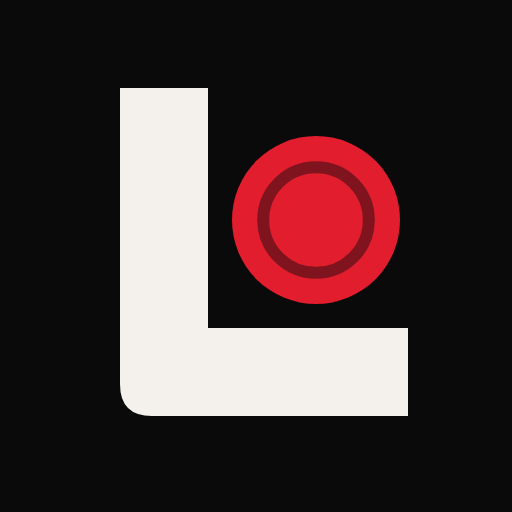
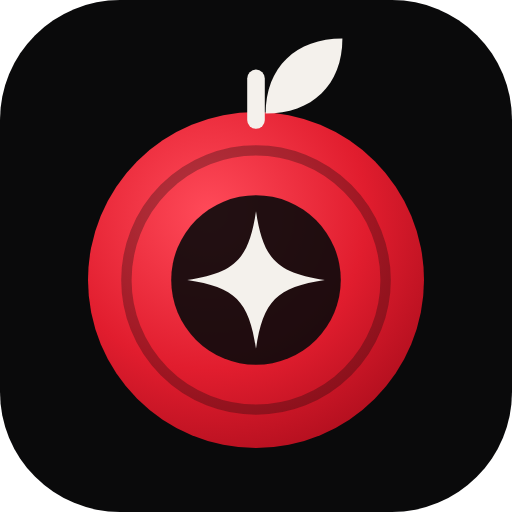
Liftkai identity: "Power Plate" symbol + custom spark wordmark
- New symbol: a weight plate (gym) that is also fresh produce (food) with a leaf
  (nutrition) and an AI spark at its core
- Custom vector wordmark drawn from Bricolage Grotesque Bold; the dot of the last
  "i" is the red AI spark (src/components/brand-paths.ts)
- Logo component now renders symbol + wordmark everywhere (site, app, auth, legal)
- New favicon, iPhone icon, OpenGraph/Twitter images and public/brand files
- Weekly email header uses the hosted logo image

Claude-Session: https://claude.ai/code/session_018ApfMf8QehEJw81eEZfCAi

diff --git a/src/components/brand-paths.ts b/src/components/brand-paths.ts
@@ -1,0 +1,4 @@
+// Generated: Liftkai custom wordmark (Bricolage Grotesque Bold outlines, last 'i' dot replaced by the AI spark).
+export const WORDMARK_VIEWBOX = "-20 -848.9 2360.0 888.9";
+export const WORDMARK_GLYPHS: [number, string][] = [[0.0, "M38.6669921875 0V694.9993896484375H182.9981689453125V0Z"], [197.0, "M38.6669921875 0V524.9996337890625H182.9981689453125V0ZM109.999267578125 569.6671142578125Q68.16644287109375 569.6671142578125 46.083404541015625 587.500244140625Q24.0003662109375 605.3333740234375 24.0003662109375 638.8709631133498Q24.0003662109375 673.3149735300165 46.17085652955821 690.990189401727Q68.34134684817892 708.6654052734375 109.96757356885453 708.6654052734375Q152.49871826171875 708.6654052734375 174.58175659179688 690.5823059082031Q196.664794921875 672.4992065429688 196.664794921875 638.666259765625Q196.664794921875 605.9824539987665 174.54703013102215 587.8247841282895Q152.42926534016928 569.6671142578125 109.999267578125 569.6671142578125Z"], [394.0, "M88.00048828125 0V330.334228515625H12.33349609375V435.16619873046875L166.49932861328125 424.666259765625V432.666259765625Q110.333251953125 439.83294677734375 80.58340454101562 460.83282470703125Q50.83355712890625 481.83270263671875 39.916839599609375 509.4159851074219Q29.0001220703125 536.999267578125 29.0001220703125 562.1661987304688Q29.0001220703125 605.9993896484375 52.083282470703125 639.0826721191406Q75.16644287109375 672.1659545898438 116.49951171875 690.2492980957031Q157.83258056640625 708.3326416015625 211.3323974609375 708.3326416015625Q254.66552734375 708.3326416015625 289.5821228027344 696.1659545898438Q324.49871826171875 683.999267578125 352.49859619140625 659.9991455078125L339.665283203125 526.8342895507812Q312.3319091796875 548.3345947265625 286.99853515625 558.5013427734375Q261.6651611328125 568.6680908203125 235.49847412109375 568.6680908203125Q203.16485595703125 568.6680908203125 183.41482543945312 553.0844421386719Q163.664794921875 537.5007934570312 163.664794921875 508.333984375Q163.664794921875 490.16693115234375 172.998291015625 475.0Q182.331787109375 459.83306884765625 201.165283203125 451.0829162597656Q219.998779296875 442.332763671875 249.49871826171875 442.332763671875H347.331787109375V330.334228515625H230.49835205078125V0Z"], [733.0, "M239.9991455078125 -11.333251953125Q152.83319091796875 -11.333251953125 109.5001220703125 34.083160400390625Q66.16705322265625 79.49957275390625 66.16705322265625 173.49884033203125V411.33447265625H6.50018310546875V504.83343505859375H15.334228515625Q70.3333740234375 511.49993896484375 93.58303833007812 540.9994506835938Q116.83270263671875 570.4989624023438 121.999267578125 629.9979248046875L123.16607666015625 643.4993286132812H208.83160400390625V524.9996337890625H333.6654052734375V408.001220703125H208.83160400390625V185.99853515625Q208.83160400390625 147.6651611328125 227.24826049804688 130.9984130859375Q245.6649169921875 114.3316650390625 273.83172607421875 114.3316650390625Q288.6651611328125 114.3316650390625 304.5819396972656 118.6650390625Q320.49871826171875 122.9984130859375 333.6654052734375 130.99853515625V3.16680908203125Q304.9990234375 -5.49981689453125 281.9158020019531 -8.416534423828125Q258.83258056640625 -11.333251953125 239.9991455078125 -11.333251953125Z"], [1066.0, "M38.6669921875 0V694.9993896484375H179.6649169921875V322.6658935546875Q216.3319091796875 339.49908447265625 244.4990234375 362.9991455078125Q272.6661376953125 386.49920654296875 293.16656494140625 414.0826721191406Q313.6669921875 441.6661376953125 326.4172668457031 470.166259765625Q339.16754150390625 498.6663818359375 345.66748046875 525.3330078125H510.49822998046875Q500.16497802734375 486.83319091796875 479.2482604980469 449.66656494140625Q458.33154296875 412.49993896484375 427.3314208984375 379.66656494140625Q396.331298828125 346.83319091796875 355.9145202636719 320.7498474121094Q315.49774169921875 294.66650390625 266.9976806640625 278.333251953125V270.333251953125Q329.49774169921875 279.16644287109375 369.66448974609375 270.8330078125Q409.83123779296875 262.49957275390625 433.4146423339844 241.49951171875Q456.998046875 220.49945068359375 469.8314208984375 189.6661376953125Q482.664794921875 158.83282470703125 489.9981689453125 121.83294677734375L513.998291015625 0H358.16729736328125L346.16717529296875 85.999755859375Q341.0003662109375 121.33349609375 331.50006103515625 150.41696166992188Q321.999755859375 179.50042724609375 298.16595458984375 197.1671142578125Q274.3321533203125 214.83380126953125 225.9981689453125 215.00048828125L179.6649169921875 215.16717529296875V0Z"], [1570.0, "M175.50006103515625 -13.83331298828125Q135.3333740234375 -13.83331298828125 99.75009155273438 0.3333740234375Q64.16680908203125 14.50006103515625 41.750213623046875 45.916717529296875Q19.3336181640625 77.3333740234375 19.3336181640625 129.49993896484375Q19.3336181640625 177.49981689453125 37.83355712890625 207.58309936523438Q56.33349609375 237.6663818359375 87.91677856445312 256.0830383300781Q119.50006103515625 274.49969482421875 157.83343505859375 284.1663818359375Q196.16680908203125 293.83306884765625 235.0003662109375 300.83306884765625Q288.16717529296875 310.6663818359375 314.50054931640625 316.5830383300781Q340.83392333984375 322.49969482421875 350.0838928222656 330.7497253417969Q359.3338623046875 338.999755859375 359.3338623046875 353.66650390625Q359.3338623046875 387.6671142578125 335.0835266113281 405.50079345703125Q310.83319091796875 423.33447265625 272.49945068359375 423.33447265625Q248.6658935546875 423.33447265625 224.9990234375 414.50103759765625Q201.3321533203125 405.6676025390625 185.91531372070312 383.9174499511719Q170.49847412109375 362.16729736328125 170.49835205078125 323.00048828125L41.33349609375 333.50054931640625Q40.83367919921875 393.6668701171875 61.583648681640625 433.5833435058594Q82.3336181640625 473.49981689453125 117.41677856445312 496.4164123535156Q152.49993896484375 519.3330078125 194.1663818359375 529.1663208007812Q235.83282470703125 538.9996337890625 277.16595458984375 538.9996337890625Q351.16534423828125 538.9996337890625 400.7485046386719 511.33319091796875Q450.3316650390625 483.666748046875 475.2483825683594 430.7503967285156Q500.16510009765625 377.83404541015625 500.16510009765625 301.16766357421875V206.16754150390625Q500.331787109375 172.000732421875 500.4151306152344 137.33392333984375Q500.49847412109375 102.6671142578125 500.5818176269531 68.41696166992188Q500.6651611328125 34.16680908203125 500.6651611328125 0H374.33349609375Q375.16693115234375 38.3336181640625 375.83367919921875 76.91714477539062Q376.50042724609375 115.50067138671875 377.16717529296875 158.16754150390625H370.6671142578125Q365.83367919921875 110.83392333984375 339.9169616699219 71.75039672851562Q314.000244140625 32.6668701171875 272.0835266113281 9.416778564453125Q230.16680908203125 -13.83331298828125 175.50006103515625 -13.83331298828125ZM231.998779296875 93.49871826171875Q252.49920654296875 93.49871826171875 274.5828552246094 101.58224487304688Q296.66650390625 109.665771484375 315.8333740234375 127.16607666015625Q335.000244140625 144.6663818359375 347.0003662109375 173.41665649414062Q359.00048828125 202.16693115234375 359.3338623046875 242.6671142578125L359.50054931640625 266.333740234375L386.3338623046875 270.667236328125Q377.50042724609375 257.00048828125 357.4169006347656 248.91714477539062Q337.3333740234375 240.83380126953125 312.0830993652344 236.25045776367188Q286.83282470703125 231.6671142578125 261.0825500488281 226.91708374023438Q235.332275390625 222.16705322265625 213.33203125 213.8336181640625Q191.331787109375 205.50018310546875 177.66497802734375 191.33331298828125Q163.9981689453125 177.16644287109375 163.9981689453125 152.332763671875Q163.9981689453125 124.16583251953125 183.24826049804688 108.832275390625Q202.49835205078125 93.49871826171875 231.998779296875 93.49871826171875Z"], [2078.0, "M38.6669921875 0V524.9996337890625H182.9981689453125V0Z"]];
+export const WORDMARK_SPARK = "M2188.3 828.9 C2217.1 697.9 2217.1 697.9 2348.0 669.2 C2217.1 640.4 2217.1 640.4 2188.3 509.5 C2159.6 640.4 2159.6 640.4 2028.6 669.2 C2159.6 697.9 2159.6 697.9 2188.3 828.9 Z";

diff --git a/src/components/Logo.tsx b/src/components/Logo.tsx
@@ -1,28 +1,55 @@
 import Link from "next/link";
+import { useId } from "react";
+import { WORDMARK_GLYPHS, WORDMARK_SPARK, WORDMARK_VIEWBOX } from "./brand-paths";
 
 /**
- * Liftkai mark: a bold "L" (lift) cradling a red plate — read as both a dinner
- * plate (kai = food) and a weight plate. The rim ring keeps it a plate at large sizes;
- * the silhouette alone holds up at 16px.
+ * Liftkai "Power Plate" symbol: a weight plate (gym) that is also a piece of fresh
+ * produce (food) with a leaf (nutrition) and an AI spark at its core.
  */
-export function LogoMark({ size = 32, className = "" }: { size?: number; className?: string }) {
+export function LogoMark({ size = 32, className = "", tile = true }: { size?: number; className?: string; tile?: boolean }) {
+  const id = useId().replace(/:/g, "");
   return (
     <svg viewBox="0 0 64 64" width={size} height={size} className={className} aria-hidden="true">
-      <rect width="64" height="64" rx="15" fill="#0A0A0B" />
-      <path d="M15 11 H26 V41 H51 V52 H19 Q15 52 15 48 Z" fill="#F4F1EC" />
-      <circle cx="39.5" cy="27.5" r="10.5" fill="#E11D2E" />
-      <circle cx="39.5" cy="27.5" r="6.6" fill="none" stroke="#0A0A0B" strokeWidth="1.5" opacity=".45" />
+      <defs>
+        <radialGradient id={`pp${id}`} cx=".36" cy=".3" r=".85">
+          <stop offset="0" stopColor="#FF4A59" />
+          <stop offset=".55" stopColor="#E11D2E" />
+          <stop offset="1" stopColor="#A50B1A" />
+        </radialGradient>
+      </defs>
+      {tile && <rect width="64" height="64" rx="15" fill="#0A0A0B" />}
+      <circle cx="32" cy="35" r="21" fill={`url(#pp${id})`} />
+      <circle cx="32" cy="35" r="16.2" fill="none" stroke="#0A0A0B" strokeWidth="1.3" opacity=".3" />
+      <circle cx="32" cy="35" r="10.6" fill="#0A0A0B" opacity=".9" />
+      <path d="M32 26.4 C32.9 32.4 34.6 34.1 40.6 35 C34.6 35.9 32.9 37.6 32 43.6 C31.1 37.6 29.4 35.9 23.4 35 C29.4 34.1 31.1 32.4 32 26.4 Z" fill="#F4F1EC" />
+      <path d="M33.2 14.2 C33.2 8.4 37 4.8 42.8 4.8 C42.8 10.6 39 14.2 33.2 14.2 Z" fill="#F4F1EC" />
+      <path d="M32 15 V9.8" stroke="#F4F1EC" strokeWidth="2.2" strokeLinecap="round" />
+    </svg>
+  );
+}
+
+/** Custom wordmark: "liftkai" with the AI spark as the dot of the last "i". Inherits text colour. */
+export function Wordmark({ height = 22, className = "" }: { height?: number; className?: string }) {
+  const [, , w, h] = WORDMARK_VIEWBOX.split(" ").map(Number);
+  return (
+    <svg viewBox={WORDMARK_VIEWBOX} height={height} width={(height * w) / h} className={className} role="img" aria-label="Liftkai">
+      <g transform="scale(1,-1)">
+        <g fill="currentColor">
+          {WORDMARK_GLYPHS.map(([x, d], i) => (
+            <path key={i} transform={`translate(${x} 0)`} d={d} />
+          ))}
+        </g>
+        <path d={WORDMARK_SPARK} fill="#E11D2E" />
+      </g>
     </svg>
   );
 }
 
 export function Logo({ href = "/" }: { href?: string }) {
   return (
-    <Link href={href} aria-label="Liftkai home" className="inline-flex items-center gap-2 text-bone">
-      <LogoMark size={30} className="shrink-0" />
-      <span className="h-display text-xl !tracking-[-0.025em]">
-        Liftk<span className="text-blood-400">ai</span>
-      </span>
+    <Link href={href} aria-label="Liftkai home" className="inline-flex items-center gap-2.5 text-bone">
+      <LogoMark size={32} className="shrink-0" />
+      <Wordmark height={24} />
     </Link>
   );
 }

diff --git a/src/lib/email.ts b/src/lib/email.ts
@@ -60,7 +60,7 @@ export function weeklyEmailHtml(opts: { name: string; tier: string; s: WeekSumma
   return `<!doctype html><html><body style="margin:0;background:#0A0A0B;font-family:-apple-system,Segoe UI,Helvetica,Arial,sans-serif;color:#A8A49D">
 <table width="100%" cellpadding="0" cellspacing="0" style="background:#0A0A0B"><tr><td align="center" style="padding:32px 16px">
 <table width="560" cellpadding="0" cellspacing="0" style="max-width:560px;width:100%">
-<tr><td style="font-size:22px;font-weight:800;color:#F4F1EC;padding-bottom:28px">Liftk<span style="color:#E11D2E">ai</span></td></tr>
+<tr><td style="padding-bottom:28px"><img src="${site}/brand/liftkai-email-logo.png" width="170" alt="liftkai" style="display:block;border:0;font-size:22px;font-weight:800;color:#F4F1EC"></td></tr>
 <tr><td style="font-size:11px;letter-spacing:3px;text-transform:uppercase;color:#E11D2E">Your week · ${esc(s.start)} → ${esc(s.end)}</td></tr>
 <tr><td style="font-size:34px;line-height:1.05;font-weight:800;color:#F4F1EC;padding:8px 0 6px">${esc(name || "Hey")}, you scored <span style="color:#E11D2E">${s.score}</span>/100.</td></tr>
 <tr><td style="font-size:15px;padding-bottom:18px">You logged ${s.daysLogged} of 7 days. Here's how the week stacked up.</td></tr>
